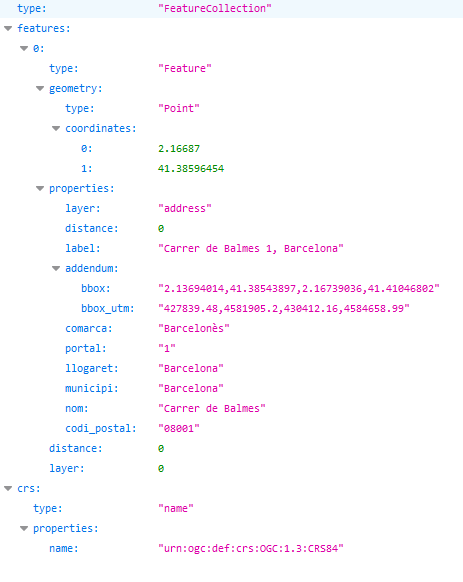
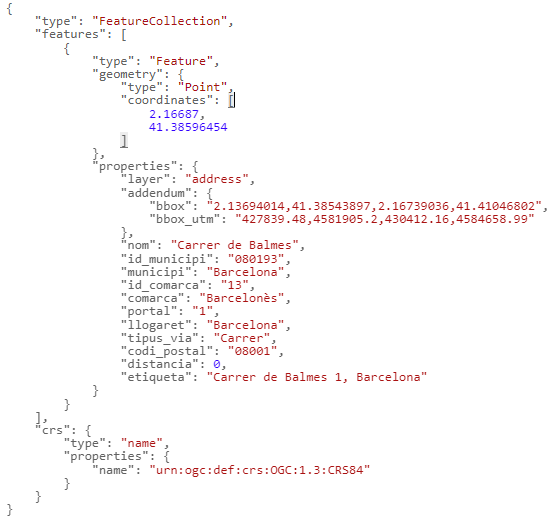
Deployed 53d40b6 with MkDocs version: 1.5.3

Changed region(s): [[0.0, 0.0, 0.9676, 0.9624], [0.3326, 0.9323, 0.7257, 0.9624]]

diff --git a/parametres_cerca/index.html b/parametres_cerca/index.html
@@ -1398,13 +1398,23 @@
 </tr>
 <tr>
 <td><strong>municipi</strong></td>
-<td>Municipi. En alguns topònims , no hi ha un municipi assignat i pren el valor "-"</td>
+<td>Municipi. En alguns topònims, no hi ha un municipi assignat i pren el valor "-"</td>
+<td>Tots</td>
+</tr>
+<tr>
+<td><strong>id_municipi</strong></td>
+<td>Identificador del municipi. En alguns topònims, no hi ha un municipi assignat i pren el valor ""</td>
 <td>Tots</td>
 </tr>
 <tr>
 <td><strong>comarca</strong></td>
-<td>Comarca. En alguns topònims , no hi ha una comarca assignada i pren el valor "-"</td>
-<td>Adreces</td>
+<td>Comarca. En alguns topònims, no hi ha una comarca assignada i pren el valor "-"</td>
+<td>Tots</td>
+</tr>
+<tr>
+<td><strong>id_comarca</strong></td>
+<td>Identificador de la comarca. En alguns topònims, no hi ha una comarca assignada i pren el valor ""</td>
+<td>Tots</td>
 </tr>
 <tr>
 <td><strong>llogaret</strong></td>
@@ -1420,6 +1430,11 @@
 <td><strong>nom</strong></td>
 <td>Nom del carrer, de l'edificació aïllada o de topònim</td>
 <td>Tots</td>
+</tr>
+<tr>
+<td><strong>tipus_via</strong></td>
+<td>Tipus del carrer</td>
+<td>Adreces</td>
 </tr>
 <tr>
 <td><strong>codi_postal</strong></td>
@@ -1480,7 +1495,7 @@
 <td><a href="https://eines.icgc.cat/geocodificador/cerca?text=nou%2010%20girona&amp;layers=address&amp;size=1" target="_blank">https://eines.icgc.cat/geocodificador/cerca?text=nou%2010%20girona&amp;layers=address&amp;size=1</a></td>
 </tr>
 <tr>
-<td><img alt="" src="../img/autocompletar-address.png" /></td>
+<td><img alt="" src="../img/cerca-adreces.png" /></td>
 </tr>
 </tbody>
 </table>
@@ -1492,10 +1507,10 @@
 </thead>
 <tbody>
 <tr>
-<td><a href="https://eines.icgc.cat/geocodificador/cerca?text=Barranc%20de%20Barball&amp;layers=tops&amp;size=1" target="_blank">https://eines.icgc.cat/geocodificador/cerca?text=Barranc%20de%20Barball&amp;layers=tops&amp;size=1</a></td>
+<td><a href="https://eines.icgc.cat/geocodificador/cerca?text=el%20tibidabo%20,Barcelona&amp;layers=tops&amp;size=1&amp;layers=tops&amp;size=1" target="_blank">https://eines.icgc.cat/geocodificador/cerca?text=el%20tibidabo%20,Barcelona&amp;layers=tops&amp;size=1</a></td>
 </tr>
 <tr>
-<td><img alt="" src="../img/autocompletar-tops.png" /></td>
+<td><img alt="" src="../img/cerca-top.png" /></td>
 </tr>
 </tbody>
 </table>

diff --git a/parametres_autocompletar/index.html b/parametres_autocompletar/index.html
@@ -1405,13 +1405,23 @@
 </tr>
 <tr>
 <td><strong>municipi</strong></td>
-<td>Municipi. En alguns topònims , no hi ha un municipi assignat i pren el valor "-"</td>
+<td>Municipi. En alguns topònims, no hi ha un municipi assignat i pren el valor "-"</td>
+<td>Tots</td>
+</tr>
+<tr>
+<td><strong>id_municipi</strong></td>
+<td>Identificador del municipi. En alguns topònims, no hi ha un municipi assignat i pren el valor ""</td>
 <td>Tots</td>
 </tr>
 <tr>
 <td><strong>comarca</strong></td>
-<td>Comarca. En alguns topònims , no hi ha una comarca assignada i pren el valor "-"</td>
-<td>Adreces</td>
+<td>Comarca. En alguns topònims, no hi ha una comarca assignada i pren el valor "-"</td>
+<td>Tots</td>
+</tr>
+<tr>
+<td><strong>id_comarca</strong></td>
+<td>Identificador de la comarca. En alguns topònims, no hi ha una comarca assignada i pren el valor ""</td>
+<td>Tots</td>
 </tr>
 <tr>
 <td><strong>llogaret</strong></td>
@@ -1427,6 +1437,11 @@
 <td><strong>nom</strong></td>
 <td>Nom del carrer, de l'edificació aïllada o de topònim</td>
 <td>Tots</td>
+</tr>
+<tr>
+<td><strong>tipus_via</strong></td>
+<td>Tipus del carrer</td>
+<td>Adreces</td>
 </tr>
 <tr>
 <td><strong>codi_postal</strong></td>
@@ -1499,7 +1514,7 @@
 </thead>
 <tbody>
 <tr>
-<td><a href="https://eines.icgc.cat/geocodificador/autocompletar?text=Barranc%20de%20Barball&amp;layers=tops&amp;size=1" target="_blank">https://eines.icgc.cat/geocodificador/autocompletar?text=Barranc%20de%20Barball&amp;layers=tops&amp;size=1</a></td>
+<td><a href="https://eines.icgc.cat/geocodificador/autocompletar?text=serra%20de%20pava&amp;layers=tops&amp;size=1" target="_blank">https://eines.icgc.cat/geocodificador/autocompletar?text=serra%20de%20pava&amp;layers=tops&amp;size=1</a></td>
 </tr>
 <tr>
 <td><img alt="" src="../img/autocompletar-tops.png" /></td>

diff --git a/parametres_invers/index.html b/parametres_invers/index.html
@@ -1312,13 +1312,23 @@
 </tr>
 <tr>
 <td><strong>municipi</strong></td>
-<td>Municipi. En alguns topònims , no hi ha un municipi assignat i pren el valor "-"</td>
+<td>Municipi. En alguns topònims, no hi ha un municipi assignat i pren el valor "-"</td>
 <td>Tots</td>
 </tr>
 <tr>
 <td><strong>comarca</strong></td>
-<td>Comarca. En alguns topònims , no hi ha una comarca assignada i pren el valor "-"</td>
+<td>Comarca. En alguns topònims, no hi ha una comarca assignada i pren el valor "-"</td>
 <td>Adreces</td>
+</tr>
+<tr>
+<td><strong>id_municipi</strong></td>
+<td>Identificador del municipi. En alguns topònims, no hi ha un municipi assignat i pren el valor ""</td>
+<td>Tots</td>
+</tr>
+<tr>
+<td><strong>id_comarca</strong></td>
+<td>Identificador de la comarca. En alguns topònims, no hi ha una comarca assignada i pren el valor ""</td>
+<td>Tots</td>
 </tr>
 <tr>
 <td><strong>llogaret</strong></td>
@@ -1334,6 +1344,11 @@
 <td><strong>nom</strong></td>
 <td>Nom del carrer, de l'edificació aïllada o de topònim</td>
 <td>Tots</td>
+</tr>
+<tr>
+<td><strong>tipus_via</strong></td>
+<td>Tipus del carrer</td>
+<td>Adreces</td>
 </tr>
 <tr>
 <td><strong>codi_postal</strong></td>

diff --git a/ex_integracio/index.html b/ex_integracio/index.html
@@ -78,7 +78,7 @@
     <div data-md-component="skip">
       
         
-        <a href="#16-altres-exemples-dintegracio-del-geocodificador-icgc" class="md-skip">
+        <a href="#111-altres-exemples-dintegracio-del-geocodificador-icgc" class="md-skip">
           Salta el contingut
         </a>
       
@@ -1033,7 +1033,7 @@
   
 
 
-<h1 id="16-altres-exemples-dintegracio-del-geocodificador-icgc">1.6 Altres exemples d'integració del Geocodificador ICGC</h1>
+<h1 id="111-altres-exemples-dintegracio-del-geocodificador-icgc">1.11 Altres exemples d'integració del Geocodificador ICGC</h1>
 <p>El visor <a href="https://eines.icgc.cat/geocodificador_visor/" target="_blank">https://eines.icgc.cat/geocodificador_visor/</a> integra el servei API de geocodificació ICGC utilitzant la llibreria Leaflet.</p>
 <p>A continuació es mostren altres exemples de visors de com integrar el servei  a les vostres aplicacions amb diferents tecnologies:</p>
 <p><strong>Visor simple d'exemple - Mapbox</strong></p>

diff --git a/index.html b/index.html
@@ -1213,6 +1213,7 @@
 <li><a href="ex_area/">1.8 Restringir la cerca dins una àrea geogràfica circular o rectangular</a></li>
 <li><a href="ex_tipus/">1.9 Filtrar segons tipus de topònim</a></li>
 <li><a href="ex_comarca_municipi/">1.10 Filtrar per comarca o per municipi</a></li>
+<li><a href="ex_integracio/">1.11 Altres exemples d'integració</a></li>
 </ul>
 <h2 id="visor">Visor</h2>
 <p><a href="visor/">Visor</a></p>
